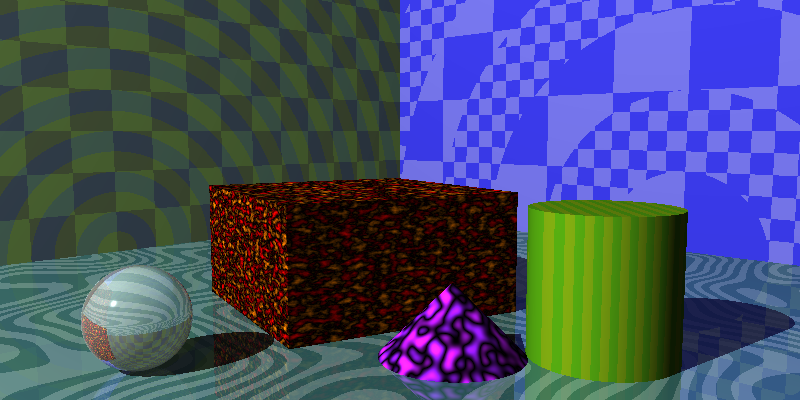
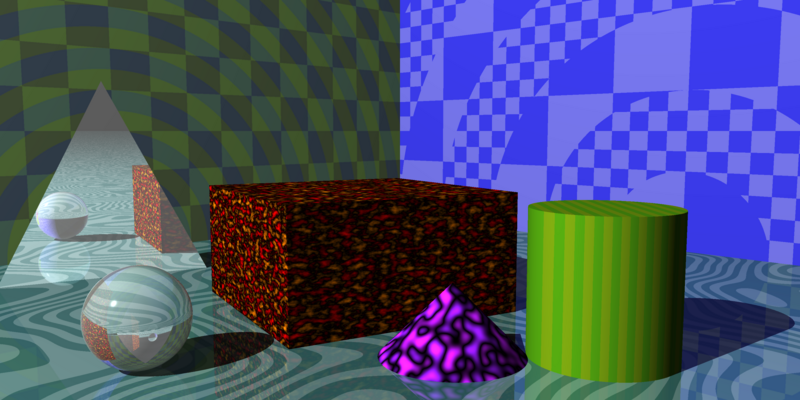
adding triangles

Changed region(s): [[0.0, 0.21, 0.625, 0.84], [0.0938, 0.78, 0.2188, 0.9], [0.6875, 0.48, 0.75, 0.51]]

diff --git a/src/raytracer/object/triangle.rs b/src/raytracer/object/triangle.rs
@@ -1,0 +1,209 @@
+use crate::matrix::Matrix;
+use crate::raytracer::intersection::Intersection;
+use crate::raytracer::material::Material;
+use crate::raytracer::object::db::get_next_id;
+use crate::raytracer::object::{AABB, normal_to_world, Object, world_to_object};
+use crate::raytracer::ray::Ray;
+use crate::tuple::Tuple;
+
+pub struct Triangle {
+    pub id: usize,
+    pub parent_id: Option<usize>,
+    pub transform: Matrix,
+    pub material: Material,
+    pub p1: Tuple,
+    pub p2: Tuple,
+    pub p3: Tuple,
+    pub e1: Tuple,
+    pub e2: Tuple,
+    pub normal: Tuple,
+}
+
+impl Triangle {
+    pub fn new(p1: Tuple, p2: Tuple, p3: Tuple) -> Triangle {
+        let e1 = p2.subtract(&p1);
+        let e2 = p3.subtract(&p1);
+        let normal = e2.cross(&e1).normalize();
+        Triangle {
+            id: get_next_id(),
+            parent_id: None,
+            transform: Matrix::identity(4),
+            material: Material::default(),
+            p1,
+            p2,
+            p3,
+            e1,
+            e2,
+            normal,
+        }
+    }
+
+    pub fn local_normal_at(&self, _local_point: &Tuple) -> Tuple {
+        self.normal
+    }
+
+    pub fn local_intersect(&self, ray: &Ray) -> Vec<Intersection> {
+        let dir_cross_e2 = ray.direction.cross(&self.e2);
+        let det = self.e1.dot(&dir_cross_e2);
+        if det.abs() < crate::EPSILON {
+            return vec![];
+        }
+
+        let f = 1.0 / det;
+        let p1_to_origin = ray.origin.subtract(&self.p1);
+        let u = f * p1_to_origin.dot(&dir_cross_e2);
+        if u < 0.0 || u > 1.0 {
+            return vec![];
+        }
+
+        let origin_cross_e1 = p1_to_origin.cross(&self.e1);
+        let v = f * ray.direction.dot(&origin_cross_e1);
+        if v < 0.0 || (u + v) > 1.0 {
+            return vec![];
+        }
+
+        let t = f * self.e2.dot(&origin_cross_e1);
+        vec![Intersection { t, object: self.id }]
+    }
+}
+
+impl Object for Triangle {
+    fn intersect(&self, ray: &Ray) -> Vec<Intersection> {
+        let trans_ray = ray.transform(&self.transform.inverse());
+        self.local_intersect(&trans_ray)
+    }
+
+    fn normal_at(&self, world_point: &Tuple) -> Tuple {
+        let local_point = world_to_object(self.id, world_point);
+        let local_normal = self.local_normal_at(&local_point);
+        normal_to_world(self.id, &local_normal)
+    }
+
+    fn get_transform(&self) -> &Matrix {
+        &self.transform
+    }
+
+    fn get_material(&self) -> &Material {
+        &self.material
+    }
+
+    fn set_transform(&mut self, transform: Matrix) {
+        self.transform = transform;
+    }
+
+    fn set_material(&mut self, material: Material) {
+        self.material = material;
+    }
+
+    fn debug_string(&self) -> String {
+        format!("Triangle: transform: {:?}, material: {:?}", self.transform, self.material)
+    }
+
+    fn get_id(&self) -> usize {
+        self.id
+    }
+
+    fn get_parent_id(&self) -> Option<usize> {
+        self.parent_id
+    }
+
+    fn set_parent_id(&mut self, id: usize) {
+        self.parent_id = Some(id);
+    }
+
+    fn get_aabb(&self) -> AABB {
+        let min = Tuple::point(
+            self.p1.x.min(self.p2.x.min(self.p3.x)),
+            self.p1.y.min(self.p2.y.min(self.p3.y)),
+            self.p1.z.min(self.p2.z.min(self.p3.z)));
+        let max = Tuple::point(
+            self.p1.x.max(self.p2.x.max(self.p3.x)),
+            self.p1.y.max(self.p2.y.max(self.p3.y)),
+            self.p1.z.max(self.p2.z.max(self.p3.z)));
+        AABB { min, max }
+    }
+}
+
+
+#[cfg(test)]
+mod tests {
+    use crate::raytracer::object::triangle::Triangle;
+    use crate::raytracer::ray::Ray;
+    use crate::tuple::Tuple;
+
+    #[test]
+   fn intersecting_a_ray_parallel_to_the_triangle() {
+         let t = Triangle::new(
+              Tuple::point(0.0, 1.0, 0.0),
+              Tuple::point(-1.0, 0.0, 0.0),
+              Tuple::point(1.0, 0.0, 0.0),
+         );
+         let r = Ray::new(
+              Tuple::point(0.0, -1.0, -2.0),
+              Tuple::vector(0.0, 1.0, 0.0),
+         );
+         let xs = t.local_intersect(&r);
+         assert_eq!(xs.len(), 0);
+   }
+
+    #[test]
+    fn a_ray_misses_the_p1_p3_edge() {
+        let t = Triangle::new(
+            Tuple::point(0.0, 1.0, 0.0),
+            Tuple::point(-1.0, 0.0, 0.0),
+            Tuple::point(1.0, 0.0, 0.0),
+        );
+        let r = Ray::new(
+            Tuple::point(1.0, 1.0, -2.0),
+            Tuple::vector(0.0, 0.0, 1.0),
+        );
+        let xs = t.local_intersect(&r);
+        assert_eq!(xs.len(), 0);
+    }
+
+    #[test]
+    fn a_ray_misses_the_p1_p2_edge() {
+        let t = Triangle::new(
+            Tuple::point(0.0, 1.0, 0.0),
+            Tuple::point(-1.0, 0.0, 0.0),
+            Tuple::point(1.0, 0.0, 0.0),
+        );
+        let r = Ray::new(
+            Tuple::point(-1.0, 1.0, -2.0),
+            Tuple::vector(0.0, 0.0, 1.0),
+        );
+        let xs = t.local_intersect(&r);
+        assert_eq!(xs.len(), 0);
+    }
+
+    #[test]
+    fn a_ray_misses_the_p2_p3_edge() {
+        let t = Triangle::new(
+            Tuple::point(0.0, 1.0, 0.0),
+            Tuple::point(-1.0, 0.0, 0.0),
+            Tuple::point(1.0, 0.0, 0.0),
+        );
+        let r = Ray::new(
+            Tuple::point(0.0, -1.0, -2.0),
+            Tuple::vector(0.0, 0.0, 1.0),
+        );
+        let xs = t.local_intersect(&r);
+        assert_eq!(xs.len(), 0);
+    }
+
+    #[test]
+    fn a_ray_strikes_a_triangle() {
+        let t = Triangle::new(
+            Tuple::point(0.0, 1.0, 0.0),
+            Tuple::point(-1.0, 0.0, 0.0),
+            Tuple::point(1.0, 0.0, 0.0),
+        );
+        let r = Ray::new(
+            Tuple::point(0.0, 0.5, -2.0),
+            Tuple::vector(0.0, 0.0, 1.0),
+        );
+        let xs = t.local_intersect(&r);
+        assert_eq!(xs.len(), 1);
+        assert_eq!(xs[0].t, 2.0);
+    }
+}

diff --git a/src/raytracer/scene_builder.rs b/src/raytracer/scene_builder.rs
@@ -13,6 +13,7 @@ use crate::raytracer::object::Object;
 use crate::raytracer::object::plane::Plane;
 use crate::raytracer::object::sphere::Sphere;
 use crate::raytracer::object::group::Group;
+use crate::raytracer::object::triangle::Triangle;
 use crate::raytracer::scene::{Scene};
 use crate::raytracer::scene_json::{MaterialJson, PatternJson, SceneJson, SceneObject, TransformJson};
 
@@ -180,6 +181,15 @@ fn create_shape(scene_object: &SceneObject) -> Arc<dyn Object> {
             Arc::new(Cone::new(minimum, maximum, closed))
         },
         "group" => create_group(scene_object),
+        "triangle" => {
+            let point = scene_object.p1.clone().unwrap_or(vec![0.0, 0.0, 0.0]);
+            let p1 = point_from_vec(&point);
+            let point = scene_object.p2.clone().unwrap_or(vec![0.0, 0.0, 0.0]);
+            let p2 = point_from_vec(&point);
+            let point = scene_object.p3.clone().unwrap_or(vec![0.0, 0.0, 0.0]);
+            let p3 = point_from_vec(&point);
+            Arc::new(Triangle::new(p1, p2, p3))
+        }
         _ => Arc::new(Sphere::new()),
     };
     Arc::get_mut(&mut s).unwrap().set_transform(create_transforms(&scene_object.transforms.clone().unwrap_or(vec![])));

diff --git a/src/raytracer/scene_json.rs b/src/raytracer/scene_json.rs
@@ -39,6 +39,9 @@ pub struct SceneObject {
     pub maximum: Option<f64>,
     pub closed: Option<bool>,
     pub children: Option<Vec<SceneObject>>,
+    pub p1: Option<Vec<f64>>,
+    pub p2: Option<Vec<f64>>,
+    pub p3: Option<Vec<f64>>,
 }
 
 #[derive(Deserialize, Clone)]

diff --git a/src/raytracer/object.rs b/src/raytracer/object.rs
@@ -5,6 +5,7 @@ pub(crate) mod cube;
 pub(crate) mod cylinder;
 pub(crate) mod db;
 pub(crate) mod group;
+pub(crate) mod triangle;
 
 use std::fmt::{Debug, Formatter};
 use crate::EPSILON;
